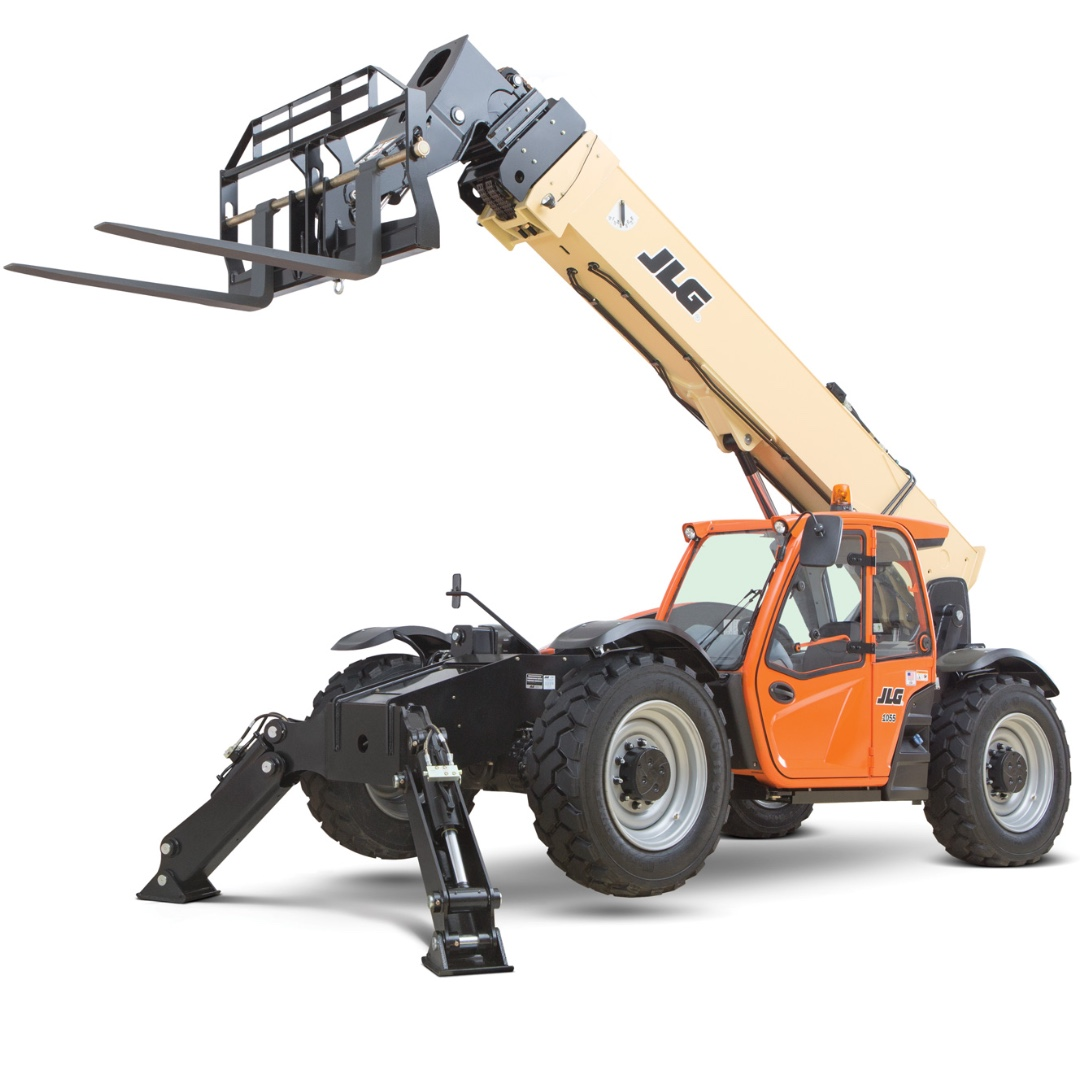
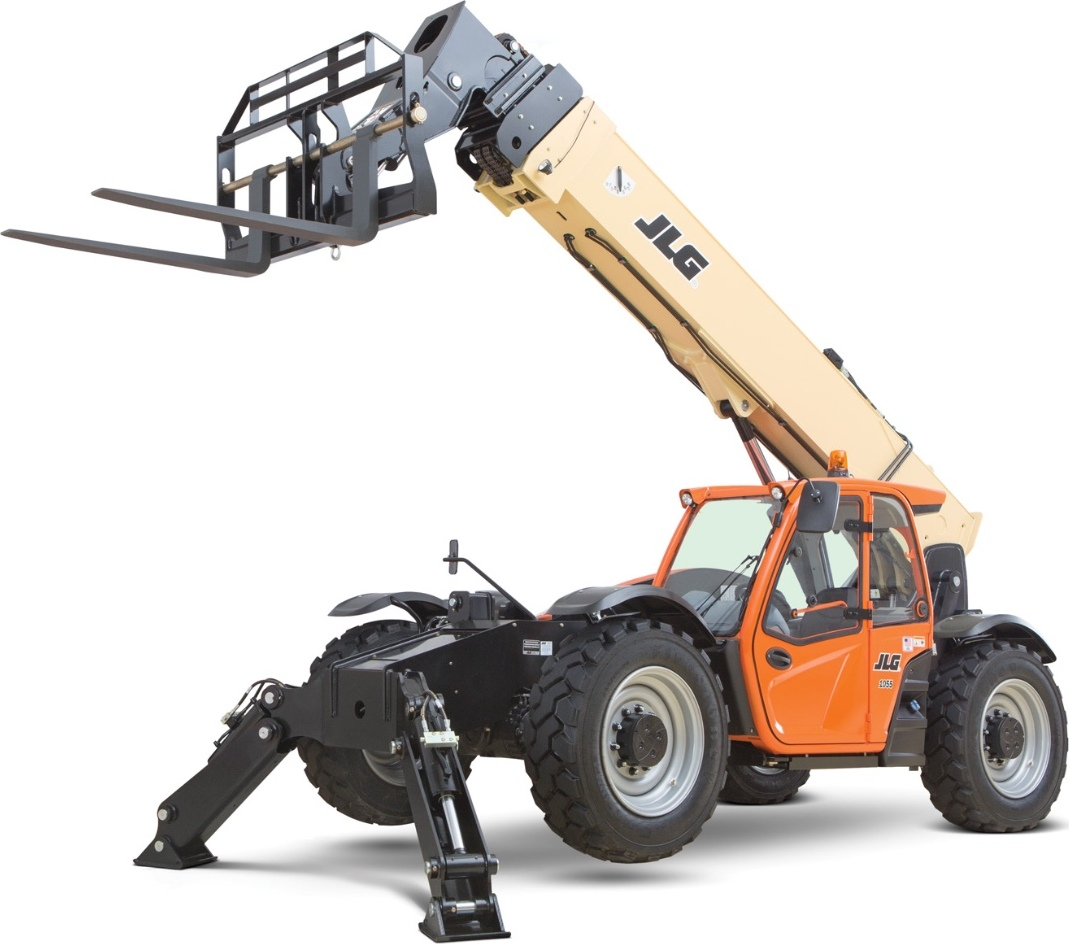
Trim excess background margin from 5 equipment catalog photos
The fleet-grid crop fix (object-fit:contain) correctly stopped cutting
off the boom/basket, but these catalog photos' original canvases had
a lot of empty background margin around the machine, so contain was
still leaving large grey gaps instead of filling the tile the way
full-bleed photography would. Auto-cropped the excess margin
(ImageMagick -fuzz 8% -trim) on the 5 units that are isolated catalog
shots on a plain background; verified each result still has the whole
machine intact (nothing cut off at the new edges) before filing.
jlg-1043.jpg and kenworth-t880.jpg are full environmental photos, not
catalog shots, so there's no background margin to trim on those two.
Verified the visual result with a Playwright render of the actual
fleet-tile markup: machines now fill noticeably more of each tile.

Claude-Session: https://claude.ai/code/session_01H7xQ4W6nDpbJGKj92PUSjn

Changed region(s): [[0.0309, 0.0, 1.0, 1.0], [0.71, 0.3072, 0.7409, 0.3379]]

diff --git a/equip-haul/photos/README.md b/equip-haul/photos/README.md
@@ -29,6 +29,15 @@ by visual inspection before filing.
 
 Every photo slot in the entire site is now filled.
 
+**Trimmed for fuller framing (Nov 2026):** `jlg-660sj.png`, `jlg-600aj.png`,
+`jlg-skytrak-10054.png`, `jlg-1055.jpg`, and `jlg-800aj.webp` had their
+excess background margin auto-cropped (ImageMagick `-trim`, whole
+machine checked intact afterward) so they fill more of each fleet tile
+instead of floating in a sea of grey. `jlg-1043.jpg` and
+`kenworth-t880.jpg` were left alone — they're full environmental
+photos (sky, jobsite), not isolated catalog shots, so there's no
+background margin to trim.
+
 **Note on `jlg-1043.jpg`:** this is a backlit/silhouette shot — no JLG
 badge or model number is legible in it. Filed as the 1043 on the
 client's direct confirmation, not from visual brand verification (the
